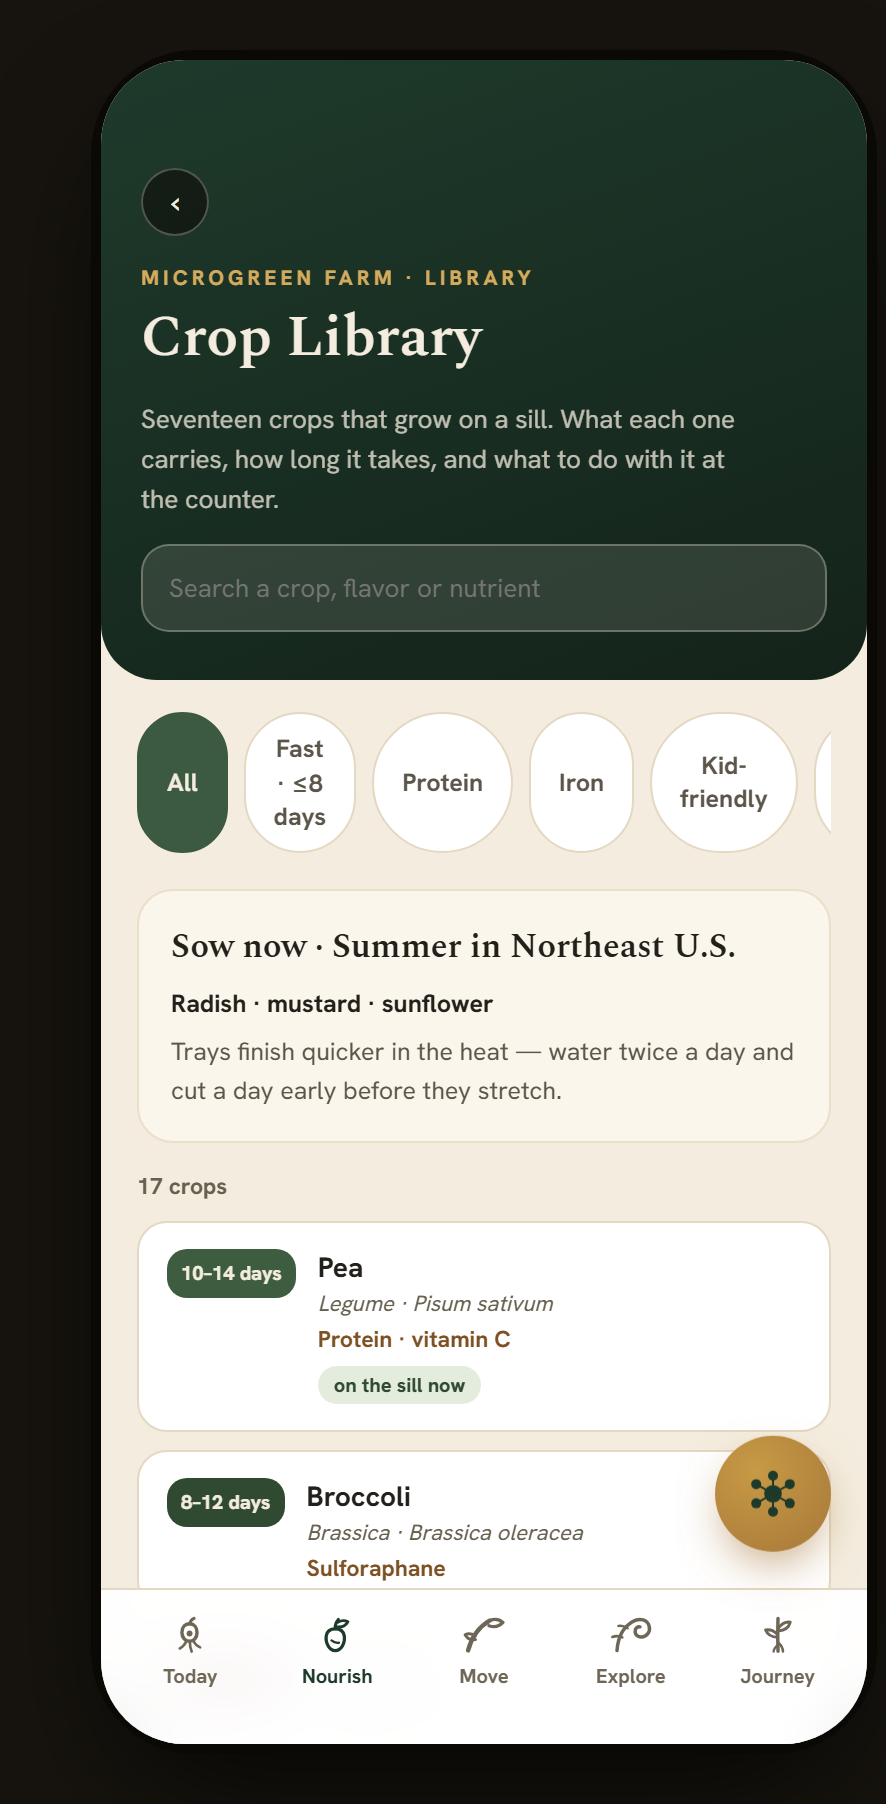
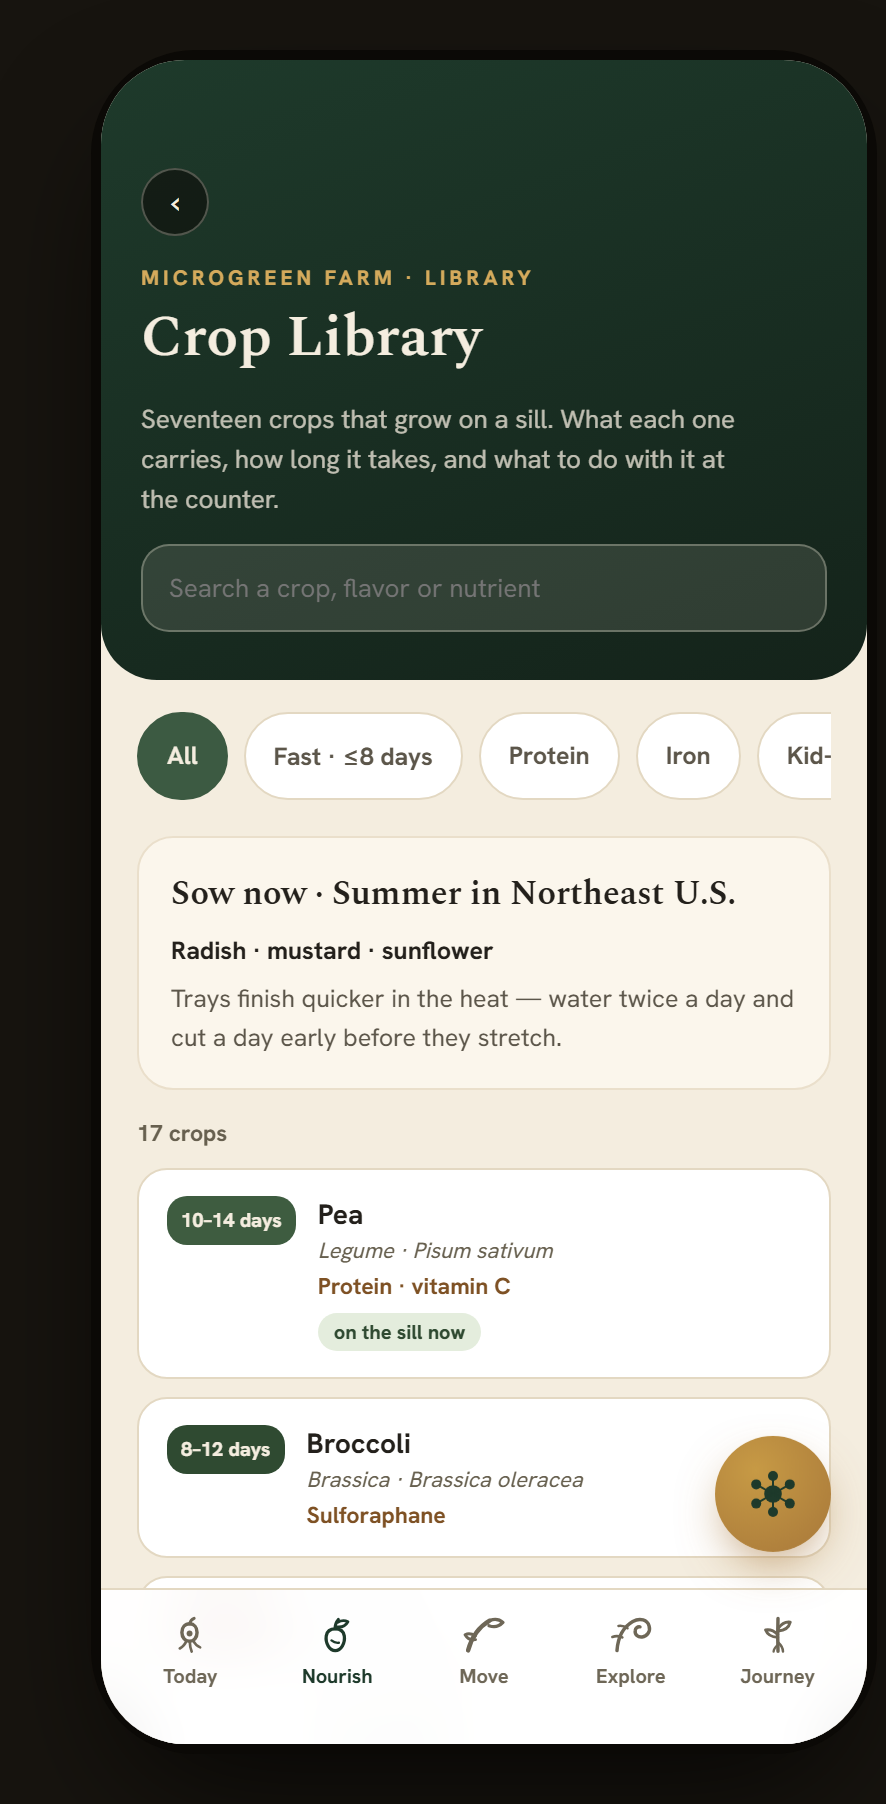
Add Explore screenshots; fix chip squeeze and an unreachable seed pairing
Twenty-seven captures of the Explore cluster, and the two defects they
exposed.

Chip rows never scrolled. `Chip` was given `whiteSpace: normal` in the
200% reflow work, on the reasoning that a horizontally scrolling row has
room to spare so nothing would change. That was wrong: flex items shrink
by default, and a row only scrolls if its items refuse to. Every chip
squeezed and wrapped its label instead — "Evening cool-down" rendered as
a circle with the word hyphen-broken across three lines. `flexShrink: 0`
restores scrolling; `maxWidth: 100%` keeps the wrapping-row guarantee the
original change was made for. Twelve rows affected, including the one in
`TabbedGuide`, which backs nine Explore screens.

The seed paired `obGoal: 'muscle'` with `freqBand: 'grounding'`, which
the app's own onboarding cannot produce — picking a goal writes the band
from `goalFreqMap`, and muscle maps to 'building'. Reachable through
"Skip for now", which bypasses the goal handler: the frequencies screen
then read "your goal — Muscle growth — tunes you to Building" with
Grounding selected and Grounding's foods below it.

Re-captured `warrior`, `croplib`, `microgreens` and `family`, whose
committed captures showed the chip bug.

Changed region(s): [[0.1524, 0.3725, 0.9447, 0.9002], [0.8533, 0.5277, 0.8837, 0.5898]]

diff --git a/app/src/components/ui.tsx b/app/src/components/ui.tsx
@@ -187,12 +187,23 @@ export function Chip({ selected, onClick, color = 'var(--clay)', children }: {
         borderRadius: 999, padding: '9px 14px', minHeight: 44,
         fontSize: 'calc(12.5px * var(--scale))', fontWeight: 700, cursor: 'pointer',
         /*
-          Was `nowrap`. In a horizontally scrolling row there is room to spare,
-          so chips still sit on one line and nothing changes. In a wrapping row
-          at large text a single long chip would otherwise outgrow the frame and
-          be clipped — losing the label, which is the whole control.
+          `whiteSpace: normal` (was `nowrap`) so that in a WRAPPING row at large
+          text a long chip wraps its label instead of outgrowing the frame and
+          being clipped — losing the label, which is the whole control.
+
+          But normal wrapping alone breaks the SCROLLING rows: flex items shrink
+          by default, so instead of the row scrolling, every chip squeezed until
+          its label wrapped — "Evening cool-down" came out as a circle with the
+          word hyphen-broken across three lines. A row only scrolls if its items
+          refuse to shrink, hence flexShrink: 0.
+
+          maxWidth then keeps the wrapping-row guarantee intact: a chip wider
+          than its container is capped and wraps inside itself rather than
+          overflowing, which flexShrink: 0 would otherwise allow.
         */
         whiteSpace: 'normal',
+        flexShrink: 0,
+        maxWidth: '100%',
       }}
     >{children}</button>
   );

diff --git a/app/src/data/initialState.ts b/app/src/data/initialState.ts
@@ -127,7 +127,15 @@ export const initialState: any = {
     teaGoal: 'energy',
     teaSafety: { pregnant: false, bp: false, thinners: false },
     savedBrews: { 'Blue vervain': true },
-    freqBand: 'grounding',
+    /*
+      Must agree with goalFreqMap[obGoal] — obGoal is 'muscle', which tunes to
+      'building'. The prototype seeds 'grounding' here, a pairing its own
+      onboarding cannot produce (picking a goal writes
+      `freqBand: goalFreqMap[g.id]`). Reachable via "Skip for now", which jumps
+      to Today with the seed intact: the frequencies screen then read "your goal
+      — Muscle growth — tunes you to Building" with Grounding selected.
+    */
+    freqBand: 'building',
     warriorId: 'zulu',
     coconutUse: 'kitchen',
     honeyUse: 'fuel',

diff --git a/app/docs/screens.md b/app/docs/screens.md
@@ -105,3 +105,70 @@ report changes with it.
 | Microgreens | Crop library | A crop |
 |---|---|---|
 | ![Trays, and the honest ceiling on the density claim](media/nourish/microgreens.png) | ![Seventeen crops, searchable, with sow advice for the current season](media/nourish/croplib.png) | ![A crop, with its full grow protocol](media/nourish/variety.png) |
+
+---
+
+## Explore
+
+Twenty-seven routes — the largest cluster, and the one carrying most of the
+app's sourced content. Every claim on these screens wears its evidence tier, and
+the tier vocabulary differs by surface: dishes are classified, herbs and foods
+are graded.
+
+### The atlas and the two codices
+
+| Explore | Foodways Codex | A region |
+|---|---|---|
+| ![The Explore hub — nutrients as one circuit, soil to blood](media/explore/explore.png) | ![Ten regional volumes](media/explore/codex.png) | ![A volume, every dish labelled by what it always was](media/explore/codexRegion.png) |
+
+| Pantry Codex | A volume | The fusion check |
+|---|---|---|
+| ![Six ingredient volumes, 55 entries, six claim tiers](media/explore/pantryCodex.png) | ![A volume, each entry graded by what the evidence carries](media/explore/pantryVol.png) | ![The eight questions every fusion recipe answers before it publishes](media/explore/fusion.png) |
+
+The codex header states its own counts — six volumes, 55 entries, six claim
+tiers — and those are read from the data, not typed into the design.
+
+### Where food comes from
+
+| Crop origins | Near you | Foraged foods |
+|---|---|---|
+| ![A crop's origin, spread and the people who carried it](media/explore/crop.png) | ![Farms, markets, co-ops and kitchens — approximate location only](media/explore/map.png) | ![Weeds and sea vegetables, with the identification warning](media/explore/forage.png) |
+
+| Community | Seasonal calendar | Mineral & body atlas |
+|---|---|---|
+| ![Learning and gathering](media/explore/community.png) | ![Not four seasons everywhere — the year by bioregion](media/explore/seasonal.png) | ![Soil to bloodstream](media/explore/minerals.png) |
+
+`seasonal` leads with the bioregion rather than assuming four temperate seasons,
+and marks the current one — "Summer · now" in August.
+
+### The apothecary
+
+| Apothecary | Tea intelligence | Nervines |
+|---|---|---|
+| ![Herbal teas and tonics](media/explore/apothecary.png) | ![Which cup, when and why](media/explore/teaIntel.png) | ![Nervines and adaptogens](media/explore/nervines.png) |
+
+| Water medicine | Ferments | Mushrooms |
+|---|---|---|
+| ![Water as medicine](media/explore/waterMed.png) | ![Live cultures](media/explore/ferment.png) | ![Fungi, graded by evidence](media/explore/mushrooms.png) |
+
+Every brew carries its grade, and the safety filters state plainly when they are
+off — "No safety filters on — every brew is shown" is shown, not implied.
+
+### Foodways in depth
+
+| Mushroom recipes | Coconut | Honey |
+|---|---|---|
+| ![Cooking with mushrooms](media/explore/shroomRecipes.png) | ![Coconut foodways](media/explore/coconut.png) | ![Honey incorporated](media/explore/honey.png) |
+
+| Swaps | Ceremony | Blood sugar |
+|---|---|---|
+| ![Substitutions that hold up](media/explore/swaps.png) | ![Ceremonial and ritual foods](media/explore/ceremony.png) | ![Eating for blood sugar, with the clinician boundary](media/explore/diabetes.png) |
+
+### Eating out, and eating for state
+
+| Nutrient frequencies | Restaurants | An order |
+|---|---|---|
+| ![Four bands, matched to how the day feels — tuned by your goal](media/explore/frequencies.png) | ![Places worth eating at](media/explore/restaurant.png) | ![A menu, filtered against your profile, with what to ask before ordering](media/explore/order.png) |
+
+`order` does not silently hide what does not fit: it counts the dishes that do,
+flags the one that does not, and gives you the questions to ask.

diff --git a/app/docs/DISCREPANCIES.md b/app/docs/DISCREPANCIES.md
@@ -177,6 +177,50 @@ read "1 serving".
 
 ---
 
+## 10. The seed state pairs a goal with a band its own onboarding cannot produce — **fixed**
+
+The prototype's seed carries `obGoal: 'muscle'` and `freqBand: 'grounding'`.
+Those two cannot coexist in any state the prototype itself can reach: choosing a
+goal in onboarding writes the band from the goal,
+
+```js
+freqBand: this.goalFreqMap[g.id] || 'grounding'
+```
+
+and `goalFreqMap.muscle` is `'building'`. `'grounding'` is only correct as the
+*pre*-onboarding default.
+
+**Why it is reachable.** The welcome screen offers **"Skip for now — explore
+first"**, which goes straight to Today without running the goal handler. A user
+who takes it keeps both seeded values, and the nutrient-frequencies screen then
+states:
+
+> Your goal — Muscle growth — tunes you to **Building**.
+
+with **Grounding** selected and Grounding's foods listed underneath. The screen
+announces a personalisation in one sentence and contradicts it in the next
+control down.
+
+**Build uses:** `freqBand: 'building'` in `src/data/initialState.ts`, with the
+reasoning at the key itself. The invariant is that the seed must satisfy
+`freqBand === goalFreqMap[obGoal]`.
+
+`teaGoal` looks like the same problem and is not: the seeded `'energy'` differs
+from `goalTeaMap.muscle` (`'recovery'`), but nothing derives `teaGoal` at
+onboarding — it changes only when the user presses "For your goal, start with
+…". Seed and goal disagreeing there is a state a real user can be in, so it is
+left alone.
+
+### Left for the owner to decide
+
+On the skip path the app addresses the user as though they had chosen a goal —
+"Your goal — Muscle growth" — when they explicitly declined to answer. The
+seeded `obGoal` is the prototype's demo default, and it feeds the Move hub, the
+tea suggestion and Today as well, so changing it is a product decision rather
+than a bug fix. Flagged rather than changed.
+
+---
+
 ## Not a discrepancy, but carried forward
 
 The README's known gap — **reflow at 200% zoom was never resolved** — has since
